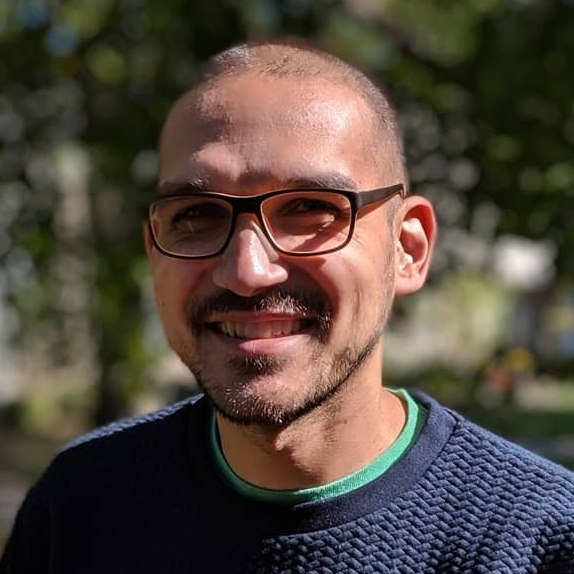
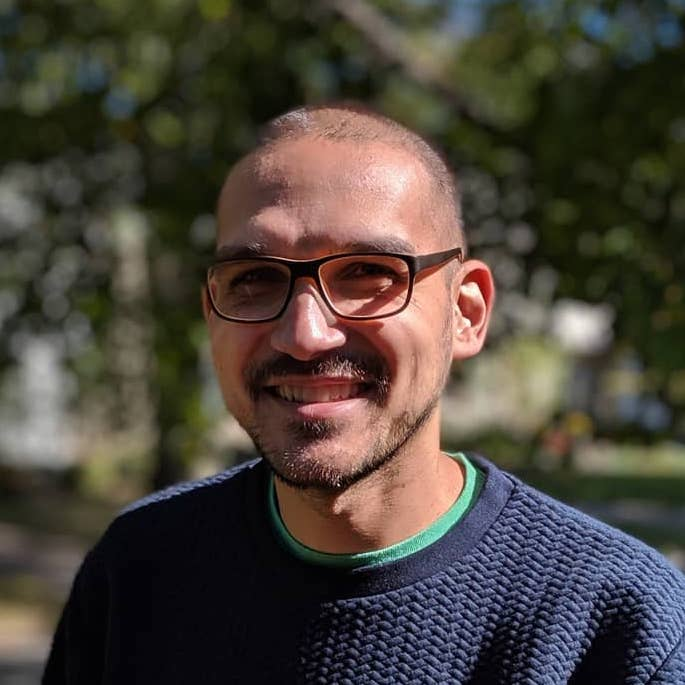
Improved portrait

diff --git a/src/components/Body/style.scss b/src/components/Body/style.scss
@@ -1,7 +1,7 @@
 .components-body {
   #portrait {
-    width: 250px;
-    height: 250px;
-    clip-path: circle(50%);
+    width: 400px;
+    height: 400px;
+    clip-path: polygon(50% 0%, 100% 50%, 50% 100%, 0% 50%);
   }
 }
